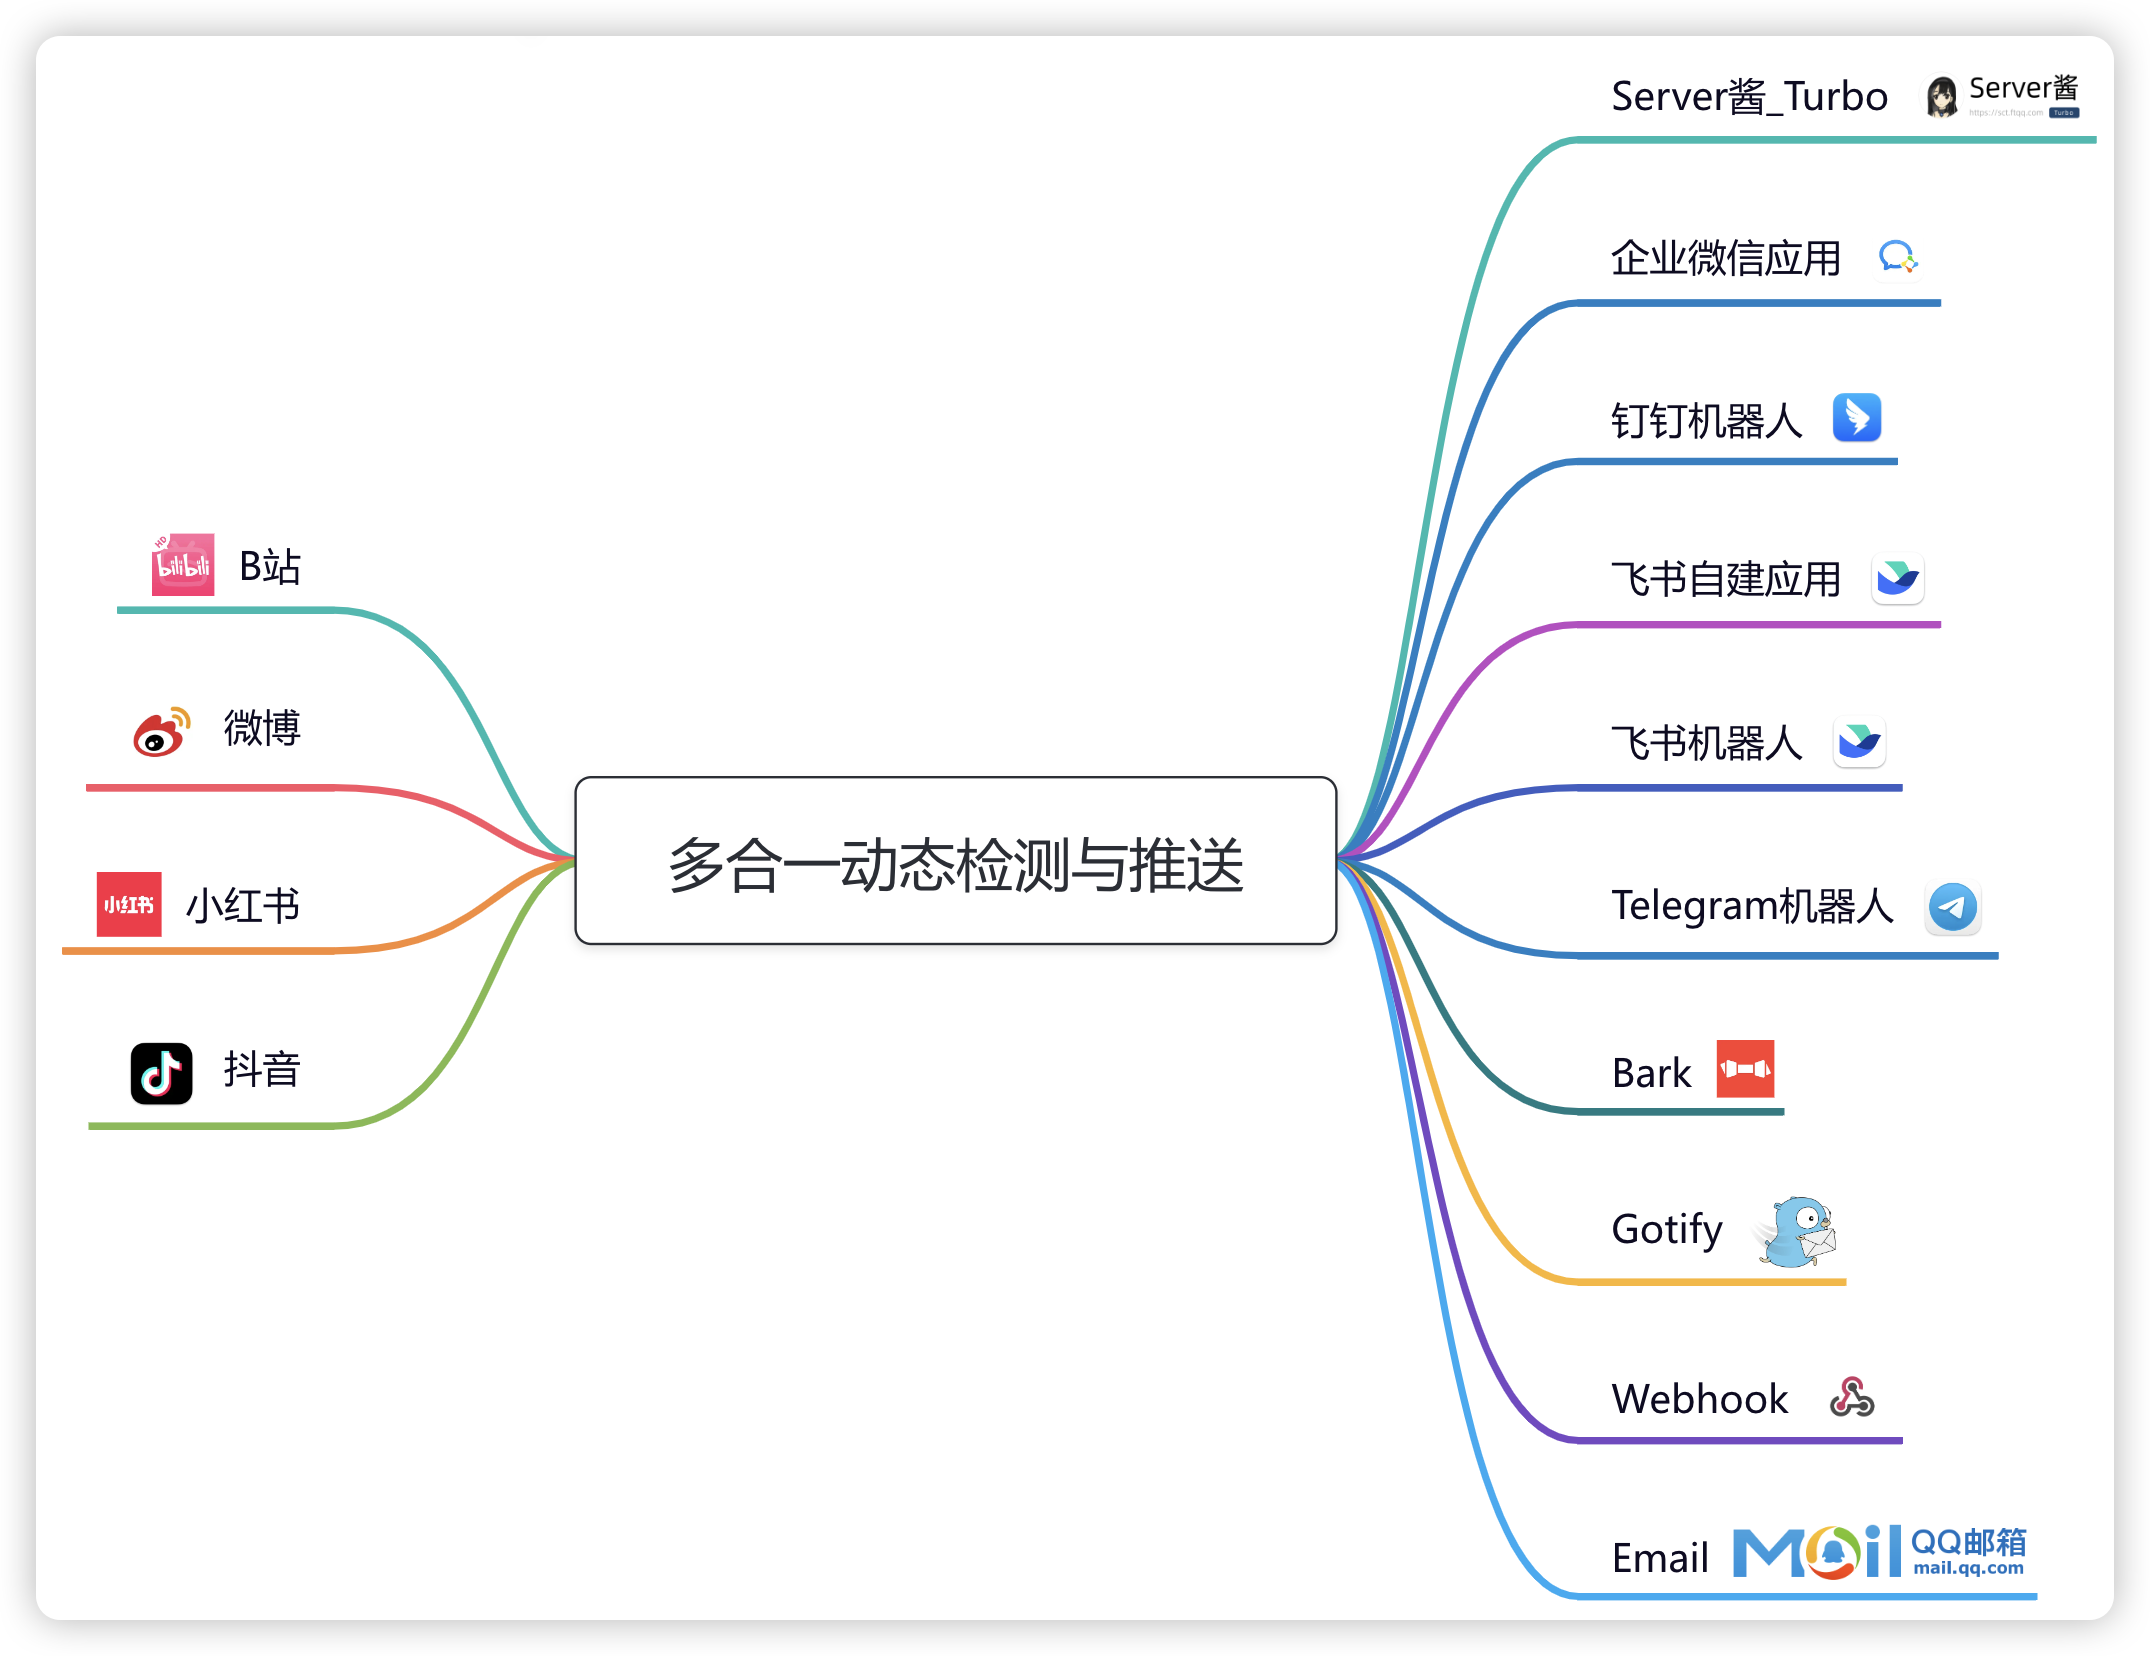
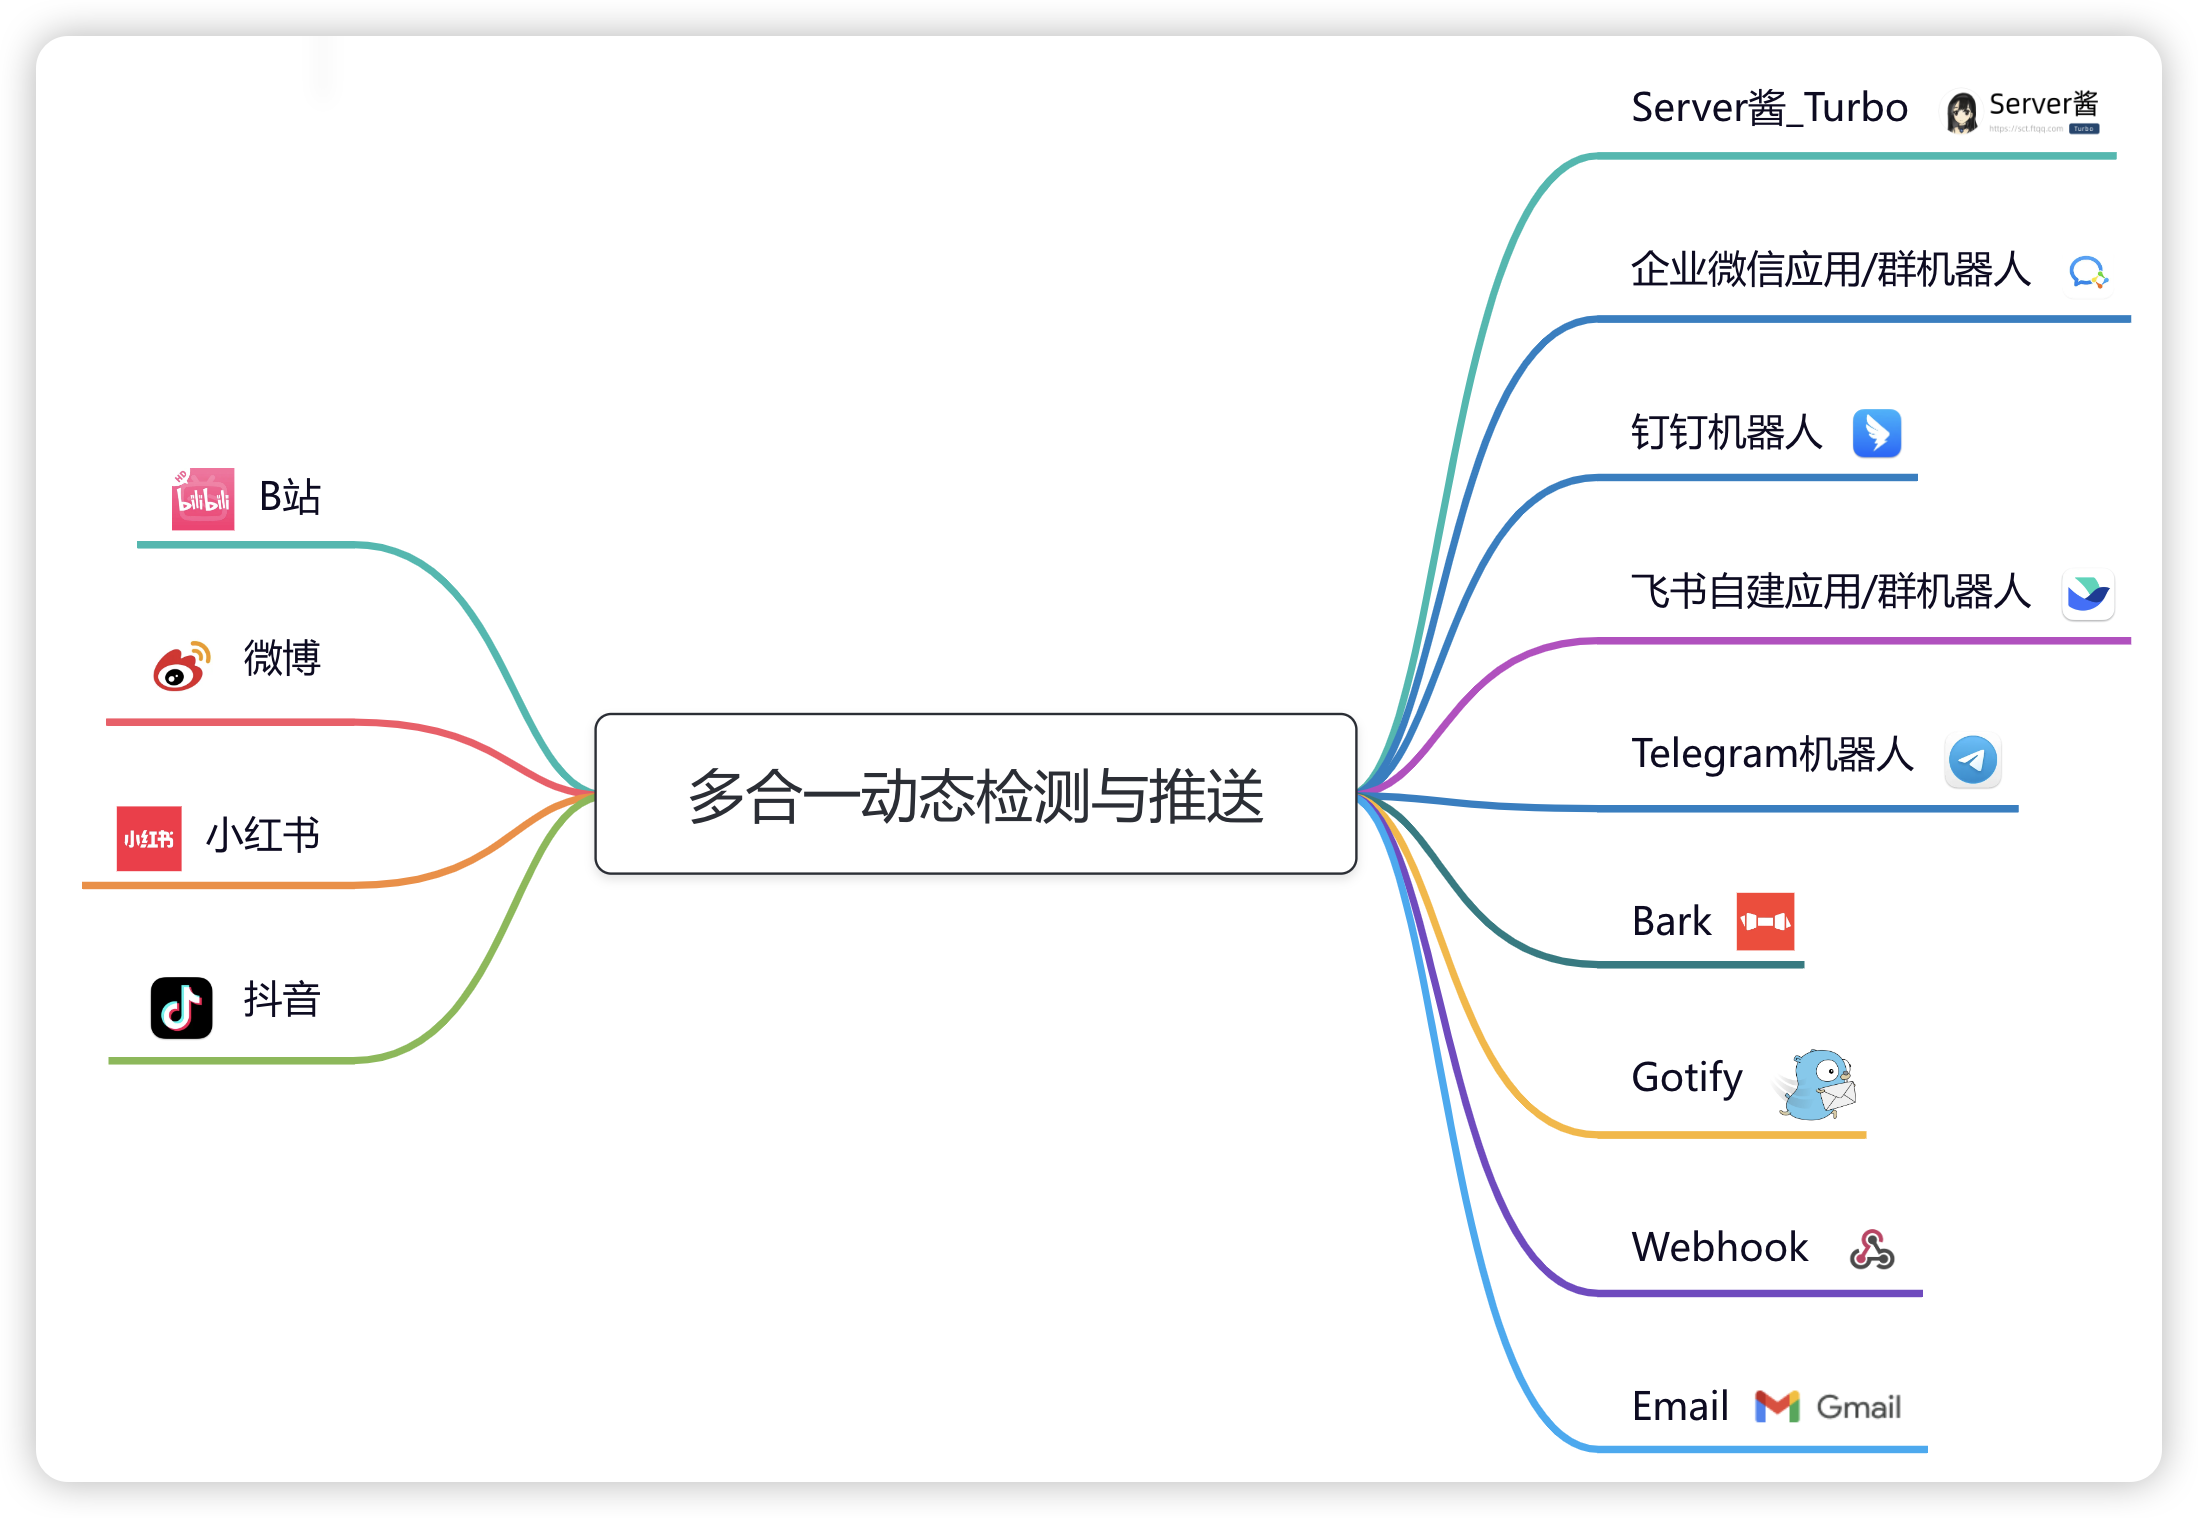
feat(push): 推送支持"企业微信群机器人"

Changed region(s): [[0.0312, 0.031, 0.966, 0.9908], [0.0623, 0.3096, 0.187, 0.3715], [0.0623, 0.4025, 0.1558, 0.4644]]

diff --git a/push_channel/wecom_bot.py b/push_channel/wecom_bot.py
@@ -1,0 +1,41 @@
+import json
+
+from common import util
+from common.logger import log
+from . import PushChannel
+
+
+class WeComBot(PushChannel):
+    def __init__(self, config):
+        super().__init__(config)
+        self.key = str(config.get("key", ""))
+        if self.key == "":
+            log.error(f"【推送_{self.name}】配置不完整，推送功能将无法正常使用")
+
+    def push(self, title, content, jump_url=None, pic_url=None):
+        push_url = "https://qyapi.weixin.qq.com/cgi-bin/webhook/send"
+        headers = {
+            "Content-Type": "application/json"
+        }
+        params = {
+            "key": self.key
+        }
+        body = {
+            "msgtype": "news",
+            "news": {
+                "articles": [
+                    {
+                        "title": title,
+                        "description": content,
+                        "url": jump_url,
+                    }
+                ]
+            }
+        }
+
+        if pic_url is not None:
+            body["news"]["articles"][0]["picurl"] = pic_url
+
+        response = util.requests_post(push_url, self.name, headers=headers, params=params, data=json.dumps(body))
+        push_result = "成功" if util.check_response_is_ok(response) else "失败"
+        log.info(f"【推送_{self.name}】{push_result}")

diff --git a/push_channel/__init__.py b/push_channel/__init__.py
@@ -10,6 +10,7 @@ from .server_chan_turbo import ServerChanTurbo
 from .telegram_bot import TelegramBot
 from .webhook import Webhook
 from .wecom_apps import WeComApps
+from .wecom_bot import WeComBot
 
 push_channel_dict = {}
 
@@ -20,6 +21,8 @@ def get_push_channel(config):
         return ServerChanTurbo(config)
     if channel_type == "wecom_apps":
         return WeComApps(config)
+    if channel_type == "wecom_bot":
+        return WeComBot(config)
     if channel_type == "dingtalk_bot":
         return DingtalkBot(config)
     if channel_type == "feishu_apps":

diff --git a/README.md b/README.md
@@ -48,6 +48,7 @@ docker run -d -v [配置文件的绝对路径]/config.yml:/mnt/config.yml nfew/a
 |---------------|------------------|:-------:|-------------------------------------------------------------------------------------------------------------|
 | Server酱_Turbo | serverChan_turbo |    ❌    | 🤖方便，不用安装app，免费用户5次/天，适合频率不高的用户<br/>👉https://sct.ftqq.com                                                  |
 | 企业微信自建应用      | wecom_apps       |    ✅    | 😢新用户不再推荐，2022年6月20日之后新创建的应用，需要配置可信IP<br/>👉https://work.weixin.qq.com/wework_admin/frame#apps/createApiApp |
+| 企业微信群聊机器人     | wecom_bot        |    ✅    | 🥳推荐，新建群聊添加自定义机器人即可<br/>👉https://developer.work.weixin.qq.com/document/path/99110                          |
 | 钉钉群聊机器人       | dingtalk_bot     |    ✅    | 🥳推荐，新建群聊添加自定义机器人即可，自定义关键词使用"【"<br/>👉https://open.dingtalk.com/document/robots/custom-robot-access         |
 | 飞书自建应用        | feishu_apps      |    ✅    | 🤔可以使用个人版，创建应用，授予其机器人权限<br/>👉https://open.feishu.cn/app?lang=zh-CN                                         |
 | 飞书群聊机器人       | feishu_bot       | ❌(暂不支持) | 🤩推荐，新建群聊添加自定义机器人即可，自定义关键词使用"【"<br/>👉https://open.feishu.cn/document/client-docs/bot-v3/add-custom-bot     |
